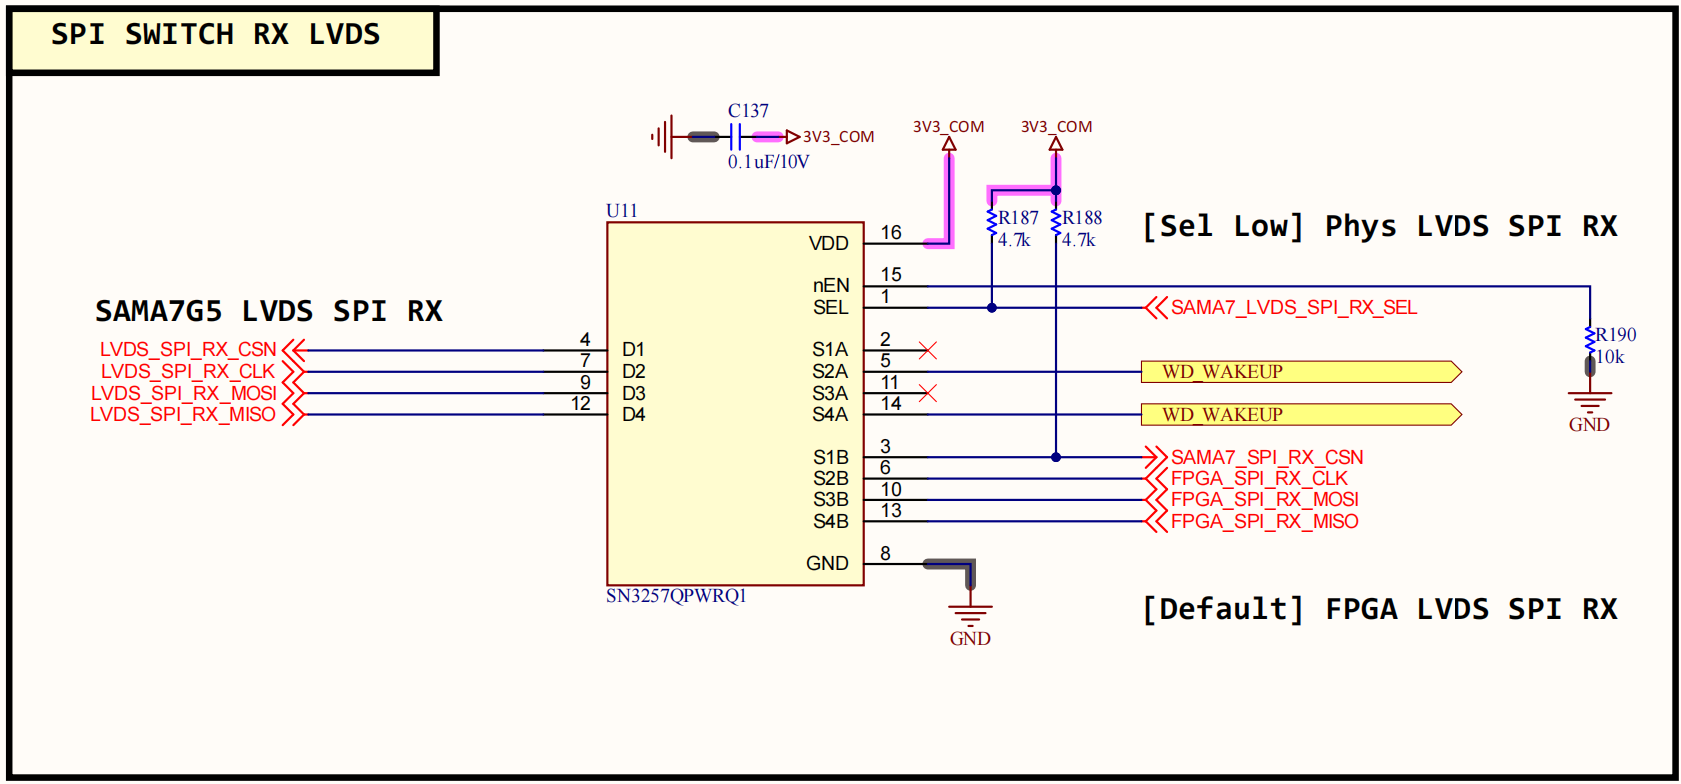
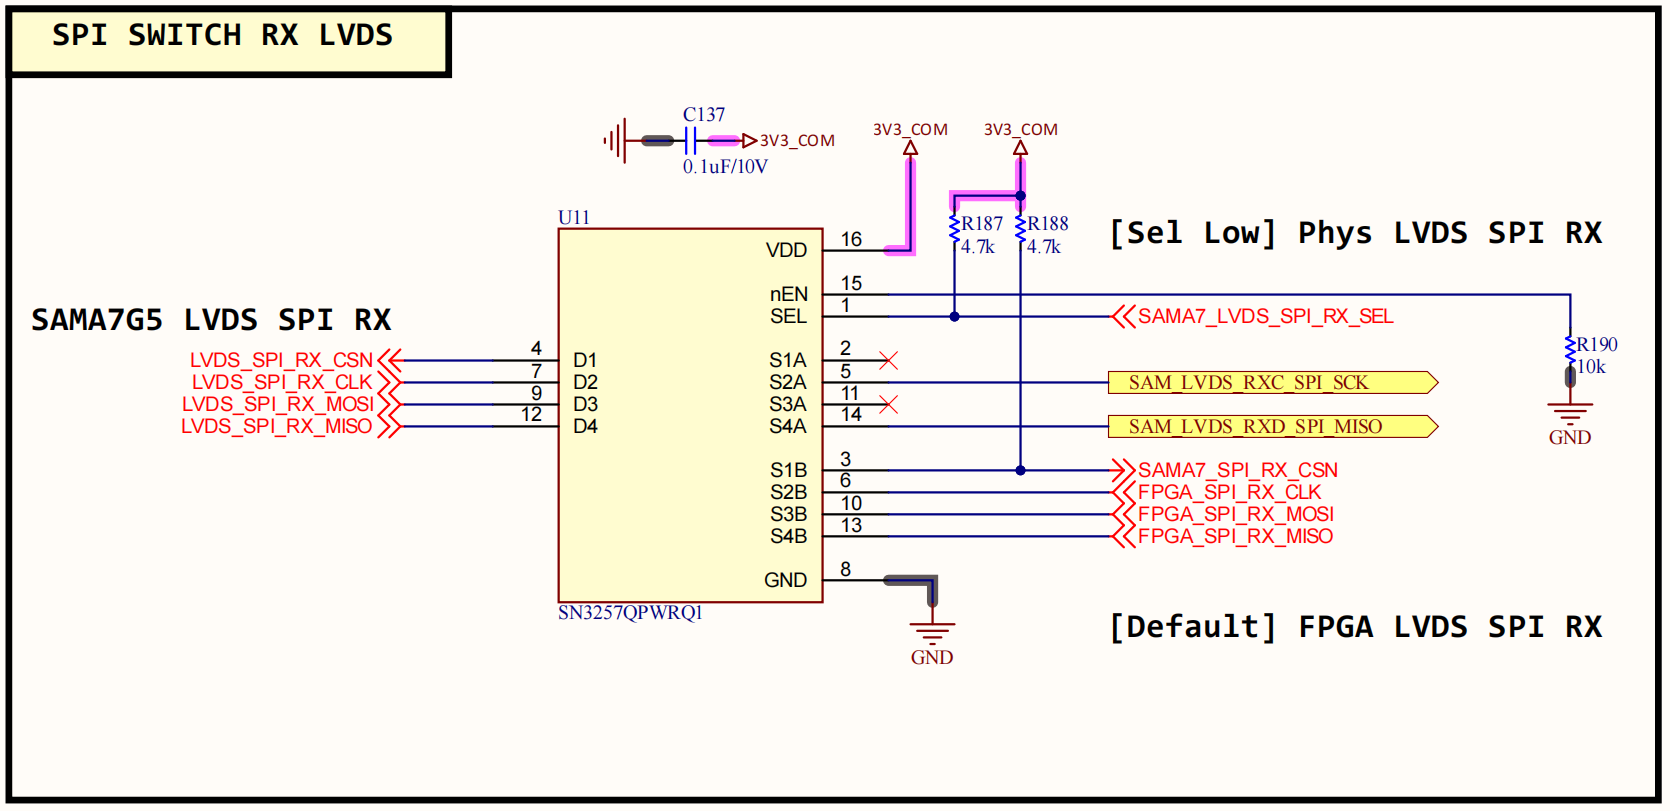
done IF, add LASER

Changed region(s): [[0.0, 0.0, 1.0, 1.0], [0.0, 0.0, 0.2802, 0.0918]]

diff --git a/chapters/chuong2.tex b/chapters/chuong2.tex
@@ -134,7 +134,7 @@ Từ đó, nguyên lý hoạt động của HEATER trong hệ thống điều kh
 \begin{figure}[H]
     \centering
     \includegraphics[width=0.7\textwidth]{picture/components/SOLENOID.png}
-    \caption{Cơ cấu điện từ SOLENOID}
+    \caption{Cấu tạo  điện từ SOLENOID}
     \label{fig:solenoid_module}
 \end{figure}
 

diff --git a/main.tex b/main.tex
@@ -46,6 +46,8 @@
 % --- Cấu hình line spacing và paragraph indent ---
 \setstretch{1.5}
 \setlength{\parindent}{2.5em}
+\setcounter{secnumdepth}{3}
+\setcounter{tocdepth}{3}
 
 \begin{document}
 
